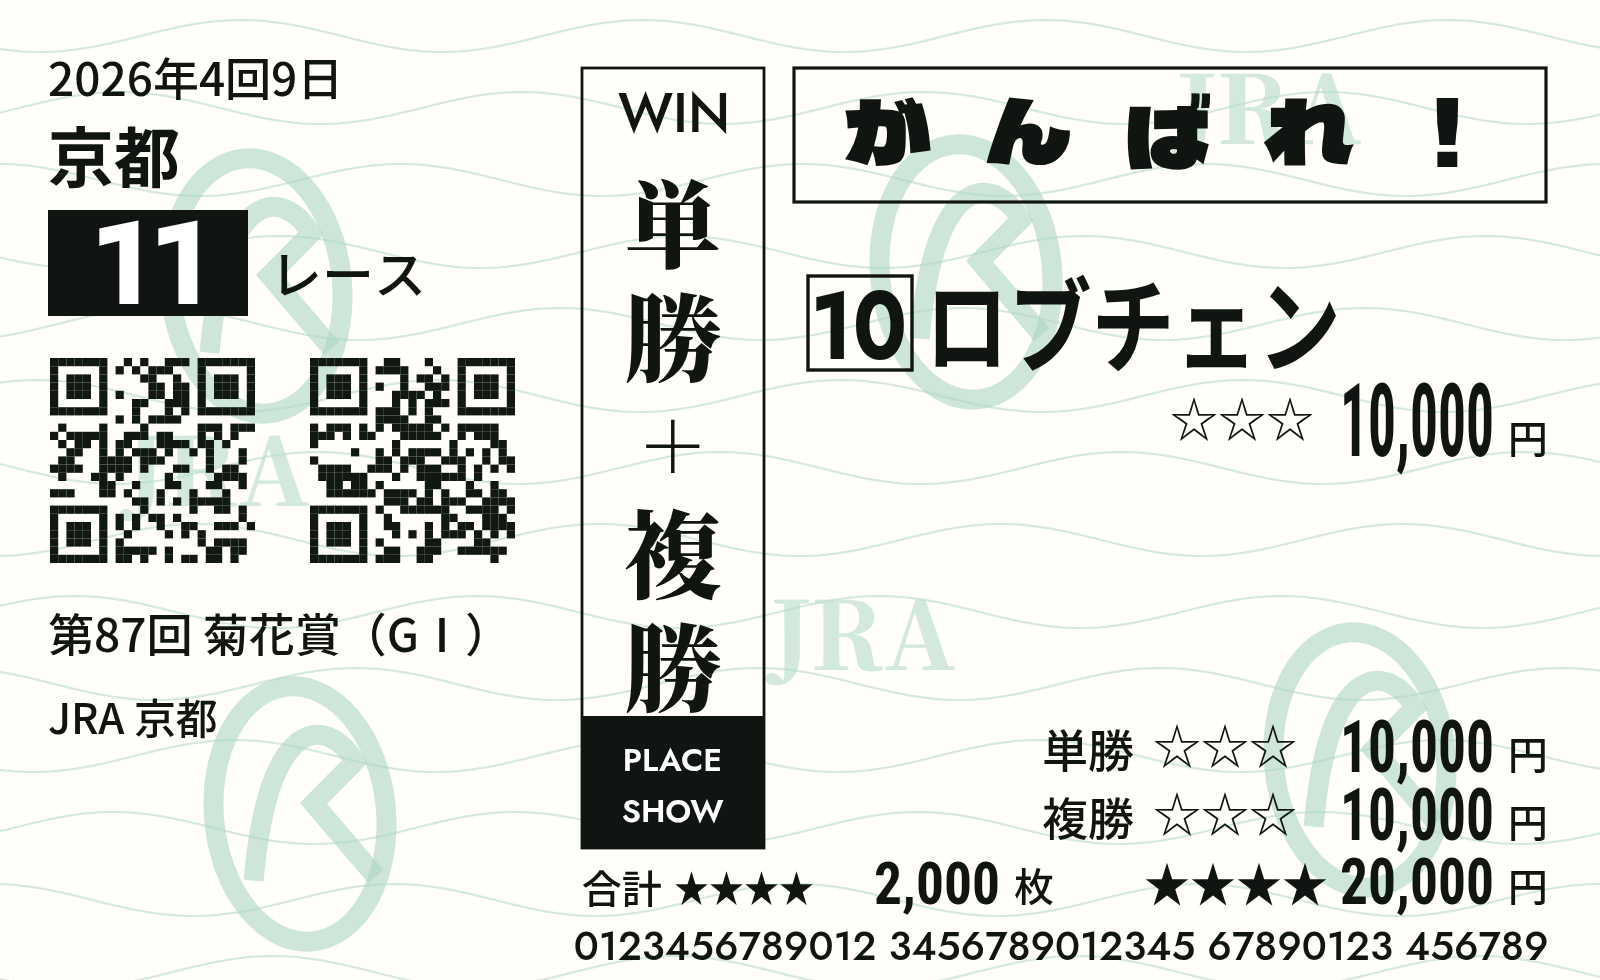
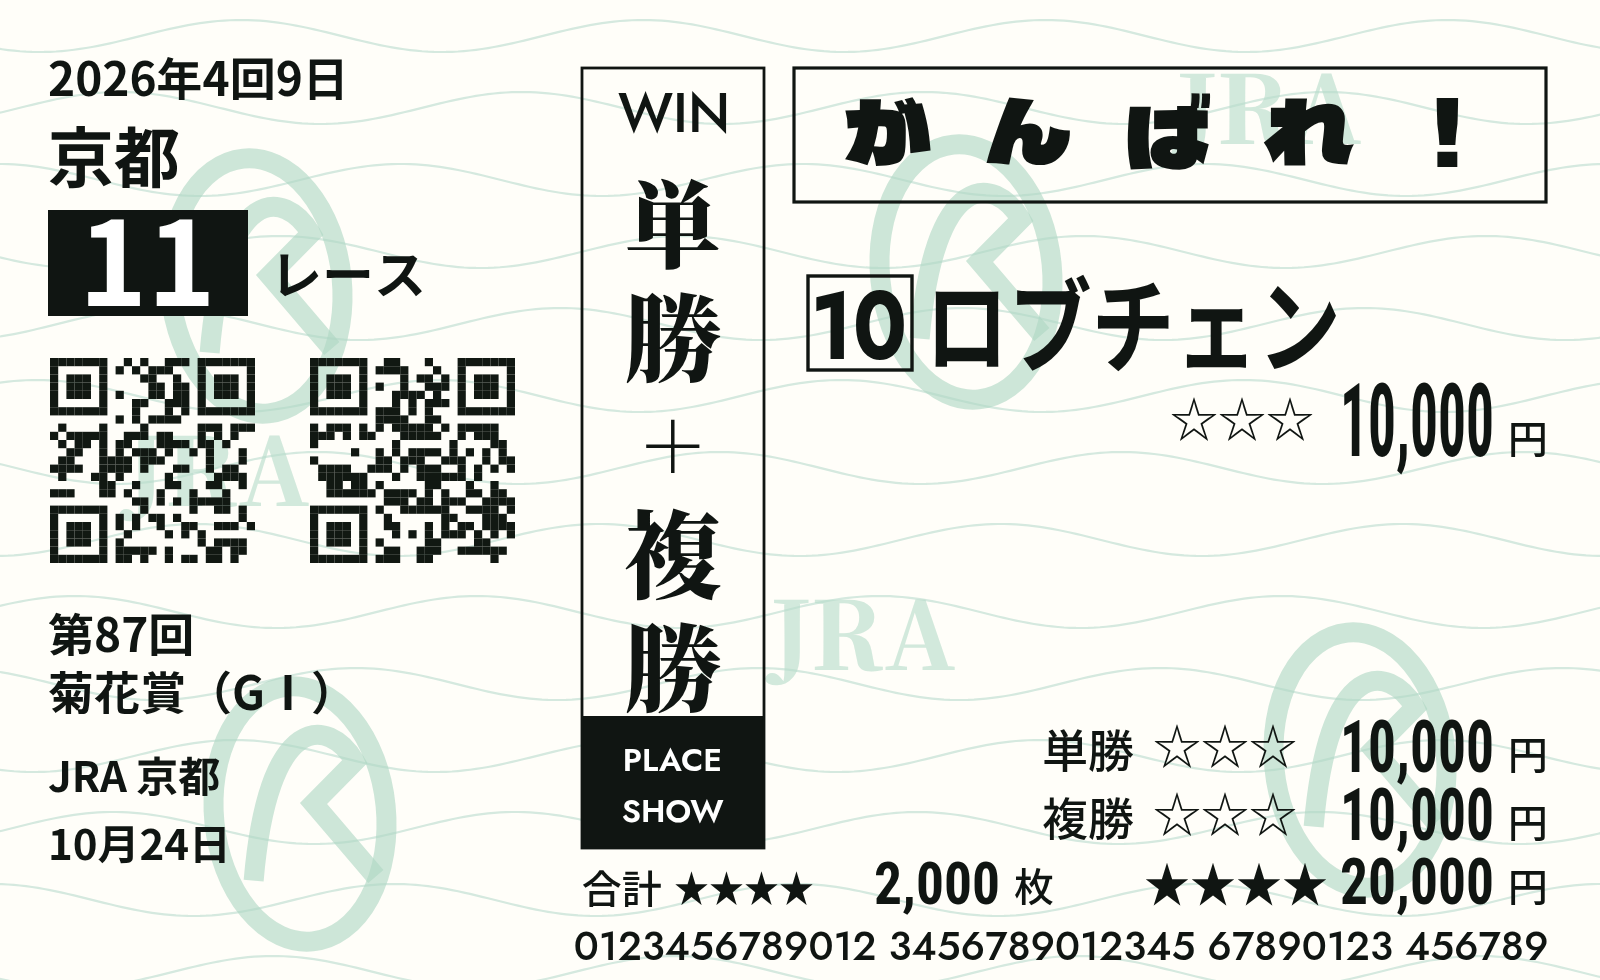
Use Gothic left-side text, wrap race titles, and show purchase dates

Changed region(s): [[0.0312, 0.6122, 0.2812, 0.8878], [0.0312, 0.0612, 0.2188, 0.1224], [0.0625, 0.2143, 0.125, 0.3367]]

diff --git a/index.html b/index.html
@@ -24,7 +24,7 @@
 <button type="button" id="cancel-background" hidden>画像選択を取り消す</button>
 <div id="image-controls" hidden><div class="slider"><label for="image-x">左右位置</label><output id="image-x-value">50%</output><input id="image-x" type="range" min="0" max="100" value="50"></div><div class="slider"><label for="image-y">上下位置</label><output id="image-y-value">50%</output><input id="image-y" type="range" min="0" max="100" value="50"></div><div class="slider"><label for="image-zoom">拡大率</label><output id="image-zoom-value">100%</output><input id="image-zoom" type="range" min="100" max="300" value="100"></div><div class="slider"><label for="image-fade">薄さ</label><output id="image-fade-value">35%</output><input id="image-fade" type="range" min="0" max="100" value="35"></div><div class="image-actions"><button type="button" id="reset-image">配置をリセット</button><button type="button" id="remove-image">画像を削除</button></div></div>
 </section>
-<section class="form-section details-section"><details><summary>詳細設定 <span>開催情報・発券情報</span></summary><div class="grid details-grid"><div class="field"><label for="meeting">開催回</label><input name="meeting" id="meeting" type="number" min="1" max="99" value="4"><small class="error" id="meeting-error"></small></div><div class="field"><label for="day">開催日目</label><input name="day" id="day" type="number" min="1" max="99" value="1"><small class="error" id="day-error"></small></div><div class="field full"><label for="raceName">レース名</label><input name="raceName" id="raceName" maxlength="80" placeholder="例：第87回 菊花賞（GⅠ）"></div><div class="field"><label for="issueType">発券場所の種別</label><select name="issueType" id="issueType"><option value="JRA">JRA</option><option value="WINS">WINS</option></select></div><div class="field"><label for="issuePlace">競馬場・施設名</label><input name="issuePlace" id="issuePlace" value="東京" placeholder="例：東京・後楽園" maxlength="24" required><small class="error" id="issuePlace-error"></small></div><div class="field full"><label for="serial">管理番号</label><input name="serial" id="serial" value="0123456789012 3456789012345 67890123 456789" maxlength="60" required><small class="error" id="serial-error"></small></div></div></details></section>
+<section class="form-section details-section"><details><summary>詳細設定 <span>開催情報・発券情報</span></summary><div class="grid details-grid"><div class="field"><label for="meeting">開催回</label><input name="meeting" id="meeting" type="number" min="1" max="99" value="4"><small class="error" id="meeting-error"></small></div><div class="field"><label for="day">開催日目</label><input name="day" id="day" type="number" min="1" max="99" value="1"><small class="error" id="day-error"></small></div><div class="field full"><label for="raceName">レース名</label><input name="raceName" id="raceName" maxlength="80" placeholder="例：第87回 菊花賞（GⅠ）"></div><div class="field"><label for="issueType">発券場所の種別</label><select name="issueType" id="issueType"><option value="JRA">JRA</option><option value="WINS">WINS</option></select></div><div class="field"><label for="issuePlace">競馬場・施設名</label><input name="issuePlace" id="issuePlace" value="東京" placeholder="例：東京・後楽園" maxlength="24" required><small class="error" id="issuePlace-error"></small></div><div class="field full"><label for="purchaseDate">購入日</label><input name="purchaseDate" id="purchaseDate" type="date" required><small class="error" id="purchaseDate-error"></small></div><div class="field full"><label for="serial">管理番号</label><input name="serial" id="serial" value="0123456789012 3456789012345 67890123 456789" maxlength="60" required><small class="error" id="serial-error"></small></div></div></details></section>
 </form></aside>
 </main><footer><span>オリジナル馬券ジェネレーター</span><a href="./fonts/LICENSES.html" target="_blank" rel="noopener">フォント・ライセンス ↗</a></footer>
 </body></html>

diff --git a/app.js b/app.js
@@ -6,6 +6,7 @@
   $('venue').replaceChildren(...venues.map(v => new Option(v,v,v==='東京',v==='東京')));
   const japanDate = new Intl.DateTimeFormat('sv-SE',{timeZone:'Asia/Tokyo',year:'numeric',month:'2-digit',day:'2-digit'}).format(new Date());
   $('date').value = japanDate;
+  $('purchaseDate').value = japanDate;
   const fonts = {sans:'"Noto Sans JP"', serif:'"Noto Serif JP"', number:'"Jost"', money:'"Roboto Condensed"', cheer:'"Dela Gothic One"'};
   let ready = false, valid = false, lastValid = null, background = null, imageRequest = 0, imageLoading = false, imageProblem = false;
   const imageDefaults = {x:50,y:50,zoom:100,fade:35};
@@ -19,12 +20,14 @@
       else if(key==='amount' && value%100) errors[key] = '金額は100円単位で入力してください。';
       data[key] = value;
     }
-    if(!/^\d{4}-\d{2}-\d{2}$/.test(data.date || '') || !$('date').validity.valid) errors.date = '有効な開催日を入力してください。';
+    for(const [key,title] of [['date','開催日'],['purchaseDate','購入日']]){
+      if(!/^\d{4}-\d{2}-\d{2}$/.test(data[key] || '') || !$(key).validity.valid) errors[key] = `有効な${title}を入力してください。`;
+    }
     for(const [key,title] of [['horseName','馬名'],['issuePlace','発券場所'],['serial','管理番号']]) {
       data[key] = data[key].trim();
       if(!data[key]) errors[key] = `${title}を入力してください。`;
     }
-    for(const key of ['race','horse','meeting','day','amount','date','horseName','issuePlace','serial']) {
+    for(const key of ['race','horse','meeting','day','amount','date','purchaseDate','horseName','issuePlace','serial']) {
       $(key+'-error').textContent = errors[key] || '';
       $(key).setAttribute('aria-invalid',Boolean(errors[key]));
       $(key).setAttribute('aria-describedby',key+'-error');
@@ -160,12 +163,17 @@
   function drawTicket(d){
     ctx.setTransform(2,0,0,2,0,0);ctx.clearRect(0,0,800,490);drawBackground();
     const year=d.date.split('-')[0];
-    text(`${year}年${d.meeting}回${d.day}日`,24,48,23,'sans',500,250);
+    text(`${year}年${d.meeting}回${d.day}日`,24,48,23,'sans',700,250);
     text(`${d.venue}`,24,91,33,'sans',700,230);
-    blackBox(24,105,100,53);centeredText(d.race,74,131.5,58,'number',700,88,'#fff');text('レース',135,147,26,'sans',500,136);
+    blackBox(24,105,100,53);centeredText(d.race,74,131.5,58,'sans',700,88,'#fff');text('レース',135,147,26,'sans',700,136);
     decorativeCode(25,179,2546789);decorativeCode(155,179,983715);
-    if(d.raceName)text(d.raceName,24,326,23,'sans',500,244);
-    text(`${d.issueType} ${d.issuePlace}`,24,367,21,'sans',500,244);
+    const title=d.raceName.trim(), breakAt=title.indexOf('回');
+    const titleLines=breakAt>=0?[title.slice(0,breakAt+1),title.slice(breakAt+1).trim()].filter(Boolean):title?[title]:[];
+    titleLines.forEach((part,index)=>text(part,24,326+index*29,23,'sans',700,244));
+    const issueY=titleLines.length>1?396:367;
+    text(`${d.issueType} ${d.issuePlace}`,24,issueY,21,'sans',700,244);
+    const [,purchaseMonth,purchaseDay]=d.purchaseDate.split('-');
+    text(`${Number(purchaseMonth)}月${Number(purchaseDay)}日`,24,issueY+34,21,'sans',700,244);
     drawBand(d.type);
     const horseTop=d.type==='cheer'?138:164;
     if(d.type==='cheer'){

diff --git a/docs/VERIFICATION.md b/docs/VERIFICATION.md
@@ -72,3 +72,10 @@
 - 発券場所は「JRA 競馬場名」または「WINS 施設名」の1行とし、種別選択を追加。
 - 「施設名＋発行」の重複行、発券時刻、発行日（YY.MM.DD）、下部X E Nを削除。発券時刻の入力欄・検証も削除。
 - Chromiumで3券種の左側印字、JRA/WINS切り替え、開催年・回・日目の変更、レース名未入力、入力エラーと保存PNGを確認。
+
+## 左側ゴシック・タイトル改行・購入日（2026-10-19）
+
+- 左側の開催情報・競馬場・レース番号・レース名・発券場所・購入日をNoto Sans JP 700のゴシック体に統一。
+- レース名は最初の「回」の直後で改行し、最大2行で表示。「回」がない場合は1行、未入力の場合は表示しない。
+- 発券場所の下に購入日を「M月D日」で表示。購入日は開催日から独立した必須入力で、日本時間の当日が初期値。
+- Chromiumで3券種の書体、タイトルの各パターン、JRA/WINS、月日のゼロ埋め除去、日付の独立性、未入力時のエラー・保存停止・直前プレビュー維持を確認。各行が重ならず券面内に収まることを描画座標とPNGで確認。
